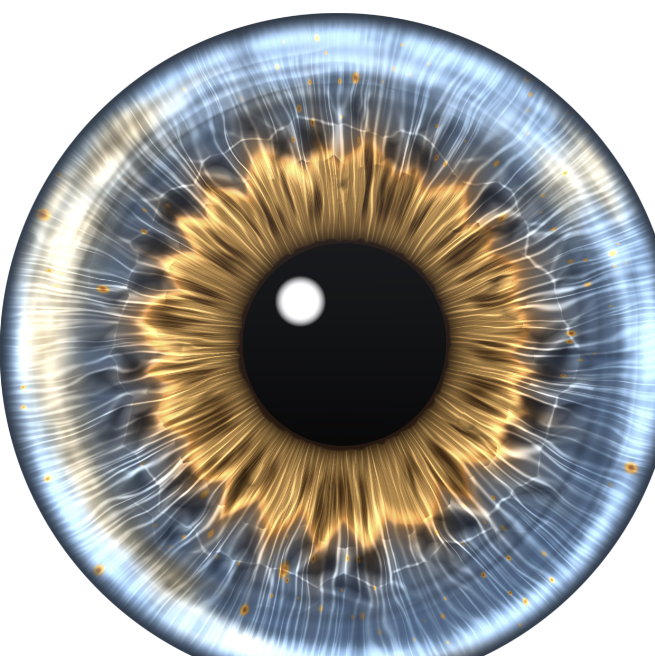
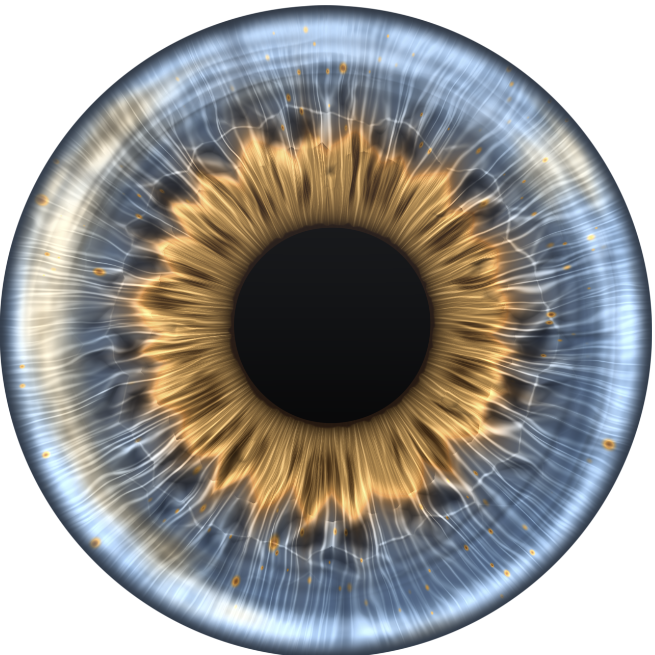
🎨 Drop the catchlight
The cornea keeps its Fresnel veil of the room; the lit window and its white disc over the
pupil go. The README's capture is retaken without it.

diff --git a/src/iris/iris-shaders.ts b/src/iris/iris-shaders.ts
@@ -913,20 +913,17 @@ vec3 toLinear(vec3 c) { return pow(max(c, 0.0), vec3(2.2)); }
 vec3 toSrgb(vec3 c) { return pow(max(c, 0.0), vec3(1.0 / 2.2)); }
 
 /* The cornea: a clear dome over the iris, face on, whose normal tilts outward with the
-   radius. It reflects the room by Fresnel, a few percent straight on: a sky above, a dark
-   floor below, and one bright window up and to the left whose reflection is the catchlight,
-   a small soft disc that sits over the pupil's margin at rest. The iris is seen through it,
-   so the reflection is added over everything, the pupil included. */
+   radius. It reflects the room by Fresnel, a few percent straight on: a sky above and a dark
+   floor below, a soft veil that lifts the top of the eye. No catchlight: a lit window is the
+   room's business, not the iris's. The iris is seen through it, so the reflection is added
+   over everything, the pupil included. */
 #define CORNEA_DOME 0.55
-const vec3 CORNEA_WINDOW = normalize(vec3(-0.12, 0.16, 0.98));
 
 vec3 corneaLayer(vec3 col, vec2 p) {
     vec3 n = normalize(vec3(p * CORNEA_DOME, 1.0));
     float fresnel = 0.02 + 0.98 * pow(1.0 - n.z, 5.0);
     vec3 r = 2.0 * n.z * n - vec3(0.0, 0.0, 1.0);
     vec3 room = mix(vec3(0.02, 0.02, 0.025), vec3(0.35, 0.4, 0.5), smoothstep(-0.4, 0.7, r.y));
-    float window = smoothstep(0.9965, 0.9995, dot(r, CORNEA_WINDOW));
-    room += vec3(70.0, 70.0, 72.0) * window;
     return col + room * fresnel * uCornea;
 }
 
@@ -1026,7 +1023,7 @@ export const IRIS_DEFAULTS = {
   uCreaseOpen: 0.35, // how much more they open at full constriction (present-only)
   uReliefSlope: 3, // how steep the baked height reads, a factor on its gradient (present-only)
   uReliefLight: 0.5, // how far the light's shading swings the colour; 0 is unlit (present-only)
-  uCornea: 1, // the corneal reflection's strength: the room by Fresnel and the catchlight (present-only)
+  uCornea: 1, // the corneal reflection's strength: the room by Fresnel, no catchlight (present-only)
   uLidShadow: 0.25, // how far the upper lid darkens the top of the eye; 0 for a bare iris (present-only)
   uPigmentPatches: 0, // the amber patches' strength; band-iris has none
   uPatchZone: 1, // where the patches lie: 0 toward the pupil, 1 toward the periphery
